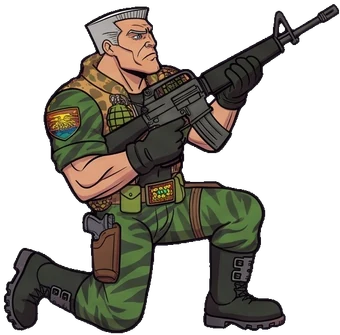
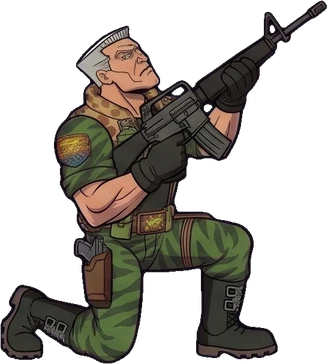
v13: soldado mas nitido, botones al tamano del joystick, voces audibles, poses de apuntar nuevas con angulo real del fusil

diff --git a/index.html b/index.html
@@ -23,12 +23,12 @@ body.touch #knob{display:block}
 <button id="mute" class="tb">🔊</button><button id="fs" class="tb">⛶</button>
 <div id="rot">Gira el móvil en horizontal ↻</div>
 <div id="zone"></div><div id="knob" class="idle"></div>
-<div class="b" id="bJ" style="right:calc(22px + env(safe-area-inset-right));bottom:calc(24px + env(safe-area-inset-bottom));width:92px;height:92px">SALTO</div>
-<div class="b" id="bF" style="right:calc(126px + env(safe-area-inset-right));bottom:calc(24px + env(safe-area-inset-bottom));width:92px;height:92px">FUEGO</div>
-<div class="b" id="bT" style="right:calc(78px + env(safe-area-inset-right));bottom:calc(126px + env(safe-area-inset-bottom));width:68px;height:68px;font-size:24px">⚡</div>
+<div class="b" id="bJ" style="right:calc(24px + env(safe-area-inset-right));bottom:calc(30px + env(safe-area-inset-bottom));width:76px;height:76px;font-size:13px">SALTO</div>
+<div class="b" id="bF" style="right:calc(112px + env(safe-area-inset-right));bottom:calc(30px + env(safe-area-inset-bottom));width:76px;height:76px;font-size:13px">FUEGO</div>
+<div class="b" id="bT" style="right:calc(68px + env(safe-area-inset-right));bottom:calc(118px + env(safe-area-inset-bottom));width:76px;height:76px;font-size:26px">⚡</div>
 <script src="spr.js"></script>
 <script>
-const VERSION='demo técnica v12 · fluida';
+const VERSION='demo técnica v13';
 // ---------- sprites ----------
 const NAMES=Object.keys(SPR),IMG={};let loaded=0;
 NAMES.forEach(n=>{const i=new Image();i.onload=()=>{loaded++};i.src='img/spr/'+n+'.webp';IMG[n]=i});
@@ -43,7 +43,7 @@ const AN={
 };
 // ---------- audio ----------
 let AC=null,muted=false,master=null;
-function audio(){if(AC)return;try{AC=new (window.AudioContext||window.webkitAudioContext)();master=AC.createGain();master.gain.value=muted?0:.5;master.connect(AC.destination)}catch(e){}}
+function audio(){if(AC)return;try{AC=new (window.AudioContext||window.webkitAudioContext)();master=AC.createGain();master.gain.value=muted?0:.5;const comp=AC.createDynamicsCompressor();comp.threshold.value=-14;comp.knee.value=10;comp.ratio.value=8;comp.attack.value=.003;comp.release.value=.15;master.connect(comp);comp.connect(AC.destination)}catch(e){}}
 function tone(f0,f1,dur,type,vol,delay){if(!AC)return;const t=AC.currentTime+(delay||0),o=AC.createOscillator(),g=AC.createGain();o.type=type||'square';o.frequency.setValueAtTime(f0,t);o.frequency.exponentialRampToValueAtTime(Math.max(20,f1),t+dur);g.gain.setValueAtTime(vol||.2,t);g.gain.exponentialRampToValueAtTime(.001,t+dur);o.connect(g);g.connect(master);o.start(t);o.stop(t+dur+.02)}
 function noise(dur,vol,hp,delay){if(!AC)return;const t=AC.currentTime+(delay||0),n=AC.sampleRate*dur|0,b=AC.createBuffer(1,n,AC.sampleRate),d=b.getChannelData(0);for(let i=0;i<n;i++)d[i]=(Math.random()*2-1)*(1-i/n);const s=AC.createBufferSource(),g=AC.createGain(),f=AC.createBiquadFilter();s.buffer=b;f.type='highpass';f.frequency.value=hp||800;g.gain.value=vol||.3;s.connect(f);f.connect(g);g.connect(master);s.start(t)}
 // voz grave sintetizada: fuente de dientes de sierra + dos formantes (como una vocal) + aspereza y soplo
@@ -52,7 +52,7 @@ function vocal(a,b,dur,f1,f2,vol,rough){if(!AC||muted)return;const t=AC.currentT
  const lfo=AC.createOscillator(),lg=AC.createGain();lfo.frequency.value=20+Math.random()*12;lg.gain.value=a*.06*(rough||1);lfo.connect(lg);lg.connect(o.frequency);lfo.start(t);lfo.stop(t+dur+.05);
  src.gain.value=.7;s2.gain.value=.35;o.connect(src);o2.connect(s2);s2.connect(src);
  [[f1,1],[f2,.6]].forEach(([f,gn])=>{const bp=AC.createBiquadFilter(),gg=AC.createGain();bp.type='bandpass';bp.frequency.value=f;bp.Q.value=4.5;gg.gain.value=gn;src.connect(bp);bp.connect(gg);gg.connect(g)});
- g.gain.setValueAtTime(.0001,t);g.gain.exponentialRampToValueAtTime(vol,t+.02);g.gain.exponentialRampToValueAtTime(.001,t+dur);g.connect(master);o.start(t);o2.start(t);o.stop(t+dur+.05);o2.stop(t+dur+.05);noise(Math.min(.12,dur),vol*.3,900)}
+ g.gain.setValueAtTime(.0001,t);g.gain.exponentialRampToValueAtTime(vol*6.5,t+.02);g.gain.exponentialRampToValueAtTime(.001,t+dur);g.connect(master);o.start(t);o2.start(t);o.stop(t+dur+.05);o2.stop(t+dur+.05);noise(Math.min(.14,dur),vol*.5,700)}
 const SFX={
  shot(){tone(2100,240,.17,'sawtooth',.16);tone(1050,110,.24,'sine',.26);tone(420,60,.16,'square',.12);noise(.07,.22,3500);tone(300,1500,.035,'triangle',.12)},   // zumbido de plasma
  grunt(k){if(k==='att')vocal(150,100,.16,650,1150,.5,1);else if(k==='jump'){if(Math.random()<.6)vocal(170,125,.13,520,1000,.42,1)}else if(k==='dash')vocal(135,85,.32,700,1200,.55,1.3);else if(k==='hurt')vocal(230,85,.4,800,1400,.7,2);else if(k==='die')vocal(190,45,1,700,1100,.7,2.5);else if(k==='win')vocal(120,150,.45,600,1000,.6,1)},
@@ -76,7 +76,7 @@ function scream(){tone(190,55,.6,'sawtooth',.28);tone(95,45,.6,'square',.12)}
  if('ontouchstart' in window)addEventListener('pointerdown',()=>{if(!document.fullscreenElement&&!document.webkitFullscreenElement)tog()},{once:true})})();
 document.getElementById('mute').onclick=e=>{muted=!muted;e.target.textContent=muted?'🔇':'🔊';if(master)master.gain.value=muted?0:.5;if(muted&&window.speechSynthesis)speechSynthesis.cancel()};
 // ---------- entrada ----------
-const K={};const keymap={ArrowLeft:'l',a:'l',ArrowRight:'r',d:'r',ArrowDown:'d',s:'d',ArrowUp:'u',w:'u',' ':'j',z:'j',k:'j',x:'f',j:'f',c:'t',l:'t',Shift:'t',h:'h',m:'m',v:'v',r:'rs'};
+const K={};const keymap={ArrowLeft:'l',a:'l',ArrowRight:'r',d:'r',ArrowDown:'d',s:'d',ArrowUp:'u',w:'u',' ':'j',z:'j',k:'j',x:'f',j:'f',c:'t',l:'t',Shift:'t',h:'h',m:'m',r:'rs'};
 const pressed={};
 addEventListener('keydown',e=>{audio();const k=keymap[e.key.length>1?e.key:e.key.toLowerCase()];if(k){K[k]=1;if(!pressed[k]){pressed[k]=1;edge(k)}e.preventDefault()}});
 addEventListener('keyup',e=>{const k=keymap[e.key.length>1?e.key:e.key.toLowerCase()];if(k){K[k]=0;pressed[k]=0}});
@@ -184,7 +184,7 @@ function shoot(){
 }
 // ---------- dibujo (optimizado: capas pre-escaladas, texturas de luz y resolución interna limitada) ----------
 const cv=document.getElementById('c'),cx=cv.getContext('2d',{alpha:false});let kk=1,cam=0,VW=640;
-const RS=1.5;   // píxeles internos por unidad lógica: tope de resolución para que vaya fluido, también en pantalla completa
+const RS=2;   // píxeles internos por unidad lógica: tope de resolución para que vaya fluido, también en pantalla completa
 const FG=new Image();FG.src='img/bg/primer_plano.jpg';const FGP=1.3,FGW=1747.5;      // primer plano: parallax 1.3
 const mk=(w,h)=>{const c=document.createElement('canvas');c.width=Math.max(1,Math.round(w));c.height=Math.max(1,Math.round(h));return c};
 let BGc=null,FGc=null,VIG=null;
@@ -202,15 +202,15 @@ function fit(){const w=innerWidth,h=innerHeight;VW=Math.max(640,Math.min(860,w/h
  VIG=mk(cv.width,cv.height);{const g=VIG.getContext('2d'),gr=g.createRadialGradient(VW/2*RS,GH*.55*RS,GH*.45*RS,VW/2*RS,GH*.55*RS,Math.max(GH*1.1,VW*.6)*RS);gr.addColorStop(0,'rgba(0,0,0,0)');gr.addColorStop(1,'rgba(0,10,6,.45)');g.fillStyle=gr;g.fillRect(0,0,VIG.width,VIG.height)}
  document.getElementById('rot').style.display=(h>w&&document.body.classList.contains('touch'))?'flex':'none'}
 addEventListener('resize',fit);fit();
-function spr(n,x,y,dir,alpha){const m=SPR[n],im=IMG[n];if(!im.complete)return;cx.save();cx.globalAlpha=alpha==null?1:alpha;cx.translate(x,y);cx.scale(dir,1);
+function spr(n,x,y,dir,alpha){const m=SPR[n],im=IMG[n];if(!im.complete)return;cx.save();cx.imageSmoothingQuality='high';cx.globalAlpha=alpha==null?1:alpha;cx.translate(x,y);cx.scale(dir,1);
  const k=SC*(m.sc||1)/(m.z||1);cx.drawImage(im,-m.cx*k,-m.by*k,m.w*k,m.h*k);cx.restore()}
 function sprTint(n,x,y,dir,alpha){const m=SPR[n],im=IMG[n];if(!im.complete||!im.naturalWidth)return;const k=SC*(m.sc||1)/(m.z||1),W=Math.ceil(m.w*k*kk),H=Math.ceil(m.h*k*kk);
  if(tcv.width<W||tcv.height<H){tcv.width=Math.max(tcv.width,W);tcv.height=Math.max(tcv.height,H)}else tcx.clearRect(0,0,W,H);
- tcx.globalCompositeOperation='source-over';tcx.drawImage(im,0,0,W,H);
+ tcx.globalCompositeOperation='source-over';tcx.imageSmoothingQuality='high';tcx.drawImage(im,0,0,W,H);
  tcx.globalCompositeOperation='source-atop';tcx.fillStyle='rgba(26,92,70,.20)';tcx.fillRect(0,0,W,H);
  const gl=P.glow||0;if(gl>.02){tcx.fillStyle='rgba(95,180,255,'+(.40*gl)+')';tcx.fillRect(0,0,W,H);const rg=tcx.createLinearGradient(W*(dir>0?1:0),0,W*(dir>0?.35:.65),0);rg.addColorStop(0,'rgba(170,225,255,'+(.45*gl)+')');rg.addColorStop(1,'rgba(170,225,255,0)');tcx.fillStyle=rg;tcx.fillRect(0,0,W,H)}
  const g=tcx.createLinearGradient(0,0,0,H);g.addColorStop(0,'rgba(190,255,200,.10)');g.addColorStop(1,'rgba(0,20,10,.22)');tcx.fillStyle=g;tcx.fillRect(0,0,W,H);tcx.globalCompositeOperation='source-over';
- cx.save();cx.globalAlpha=alpha==null?1:alpha;cx.translate(x,y);cx.scale(dir,1);cx.drawImage(tcv,0,0,W,H,-m.cx*k,-m.by*k,W/kk,H/kk);cx.restore()}
+ cx.save();cx.imageSmoothingQuality='high';cx.globalAlpha=alpha==null?1:alpha;cx.translate(x,y);cx.scale(dir,1);cx.drawImage(tcv,0,0,W,H,-m.cx*k,-m.by*k,W/kk,H/kk);cx.restore()}
 function frame(){const a=AN[P.state]||AN.idle,i=a[2]?Math.floor((P.ft||0)*a[1])%a[0].length:0;return a[0][i]}
 function draw(){
  if(!BGc||!FGc)prep();
@@ -249,7 +249,7 @@ function draw(){
  cx.fillText('SOLDADOS DE ALTA ELITE · '+VERSION,10,18);
  for(let i=0;i<5;i++){cx.fillStyle=i<P.hp?'#e04040':'#444';cx.fillRect(10+i*18,26,14,12)}
  cx.fillStyle='#ddd';cx.font='11px Arial';cx.fillText('Estado: '+P.state+(P.canDash?'  ⚡ impulso listo':'  ⚡ recargando (toca suelo)'),10,54);
- if(!document.body.classList.contains('touch')){cx.fillText('◀▶/A D mover · ▼/S agachar · Espacio/Z salto · X/J fuego · C/Shift impulso · W/↑ apuntar arriba · ▼ en el aire abajo · H daño · V victoria · R reiniciar · M sonido',10,GH-8)}
+ if(!document.body.classList.contains('touch')){cx.fillText('◀▶/A D mover · ▼/S agachar · Espacio/Z salto · X/J fuego · C/Shift impulso · W/↑ apuntar arriba · ▼ en el aire abajo · H daño · R reiniciar · M sonido',10,GH-8)}
  if(P.dead){cx.fillStyle='#000a';cx.fillRect(0,130,VW,80);cx.fillStyle='#fff';cx.font='bold 26px Arial';cx.textAlign='center';cx.fillText('MISIÓN FALLIDA',VW/2,172);cx.font='13px Arial';cx.fillText('Pulsa R o salta para reiniciar',VW/2,196)}
 }
 let last=performance.now(),started=false;

diff --git a/spr.js b/spr.js
@@ -1,1 +1,1 @@
-window.SPR={"a1_0":{"w":389,"h":394,"cx":155,"by":389,"tx":383,"ty":72,"z":1.2,"ax":1,"ay":-0.008},"a1_1":{"w":346,"h":410,"cx":143,"by":406,"tx":339,"ty":31,"z":1.2,"ax":0.936,"ay":-0.351},"a1_2":{"w":259,"h":464,"cx":128,"by":462,"tx":250,"ty":1,"z":1.2,"ax":0.552,"ay":-0.834,"sc":1.1},"a1_3":{"w":319,"h":400,"cx":132,"by":397,"tx":314,"ty":233,"z":1.2,"ax":0.867,"ay":0.498},"a1_4":{"w":346,"h":373,"cx":148,"by":369,"tx":338,"ty":245,"z":1.2,"ax":0.818,"ay":0.575},"a1_5":{"w":394,"h":319,"cx":184,"by":316,"tx":391,"ty":94,"z":1.2,"ax":1,"ay":0.001},"a1_6":{"w":340,"h":335,"cx":157,"by":332,"tx":334,"ty":4,"z":1.2,"ax":0.857,"ay":-0.516},"d1_0":{"w":400,"h":367,"cx":190,"by":365,"tx":396,"ty":149,"z":1.2,"ax":0.998,"ay":0.058,"sc":1.002},"d1_1":{"w":427,"h":389,"cx":220,"by":386,"tx":421,"ty":175,"z":1.2,"ax":0.978,"ay":0.21,"sc":0.986},"d1_2":{"w":454,"h":362,"cx":254,"by":358,"tx":448,"ty":163,"z":1.2,"ax":0.974,"ay":0.228,"sc":0.974},"d1_3":{"w":405,"h":373,"cx":211,"by":371,"tx":402,"ty":161,"z":1.2,"ax":0.979,"ay":0.203,"sc":0.987},"d1_4":{"w":427,"h":383,"cx":218,"by":377,"tx":425,"ty":154,"z":1.2,"ax":0.995,"ay":0.097,"sc":0.984},"d1_5":{"w":405,"h":373,"cx":191,"by":369,"tx":401,"ty":158,"z":1.2,"ax":0.994,"ay":0.113,"sc":1.004},"d1_6":{"w":335,"h":373,"cx":117,"by":371,"tx":331,"ty":244,"z":1.2,"ax":0.898,"ay":0.44,"sc":0.996},"d1_7":{"w":296,"h":405,"cx":129,"by":400,"tx":295,"ty":150,"z":1.2,"ax":1,"ay":0.028,"sc":1.021},"e2_0":{"w":346,"h":365,"cx":137,"by":364,"tx":344,"ty":146,"z":1.2,"ax":0.999,"ay":0.045,"sc":1.007},"e2_1":{"w":349,"h":398,"cx":139,"by":397,"tx":347,"ty":164,"z":1.2,"ax":0.998,"ay":0.066,"sc":1.007},"e2_2":{"w":404,"h":380,"cx":150,"by":379,"tx":402,"ty":112,"z":1.2,"ax":1,"ay":0,"sc":0.994},"e2_3":{"w":367,"h":406,"cx":157,"by":371,"tx":366,"ty":137,"z":1.2,"ax":0.995,"ay":-0.099,"sc":0.966},"e2_4":{"w":355,"h":404,"cx":118,"by":403,"tx":353,"ty":149,"z":1.2,"sc":0.996},"e2_5":{"w":400,"h":356,"cx":151,"by":355,"tx":398,"ty":185,"z":1.2,"sc":1},"e2_6":{"w":426,"h":160,"cx":215,"by":158,"tx":425,"ty":74,"z":1.2,"sc":1},"e2_7":{"w":293,"h":425,"cx":130,"by":424,"tx":292,"ty":235,"z":1.2,"sc":1.056},"j1_0":{"w":400,"h":367,"cx":191,"by":364,"tx":396,"ty":150,"z":1.2,"ax":0.997,"ay":0.075,"sc":1.017},"j1_1":{"w":432,"h":389,"cx":227,"by":386,"tx":431,"ty":160,"z":1.2,"ax":0.993,"ay":0.121,"sc":1.021},"j1_2":{"w":394,"h":416,"cx":187,"by":410,"tx":389,"ty":167,"z":1.2,"ax":0.989,"ay":0.146,"sc":1.02},"j1_3":{"w":329,"h":351,"cx":126,"by":350,"tx":324,"ty":167,"z":1.2,"ax":0.983,"ay":0.183,"sc":0.996},"j1_4":{"w":335,"h":340,"cx":121,"by":339,"tx":331,"ty":150,"z":1.2,"ax":0.997,"ay":0.08,"sc":1.007},"j1_5":{"w":335,"h":389,"cx":120,"by":385,"tx":331,"ty":164,"z":1.2,"ax":0.992,"ay":0.124,"sc":1.013},"j1_6":{"w":335,"h":394,"cx":121,"by":391,"tx":331,"ty":164,"z":1.2,"ax":0.993,"ay":0.121,"sc":1.013},"j1_7":{"w":328,"h":313,"cx":147,"by":309,"tx":327,"ty":162,"z":1.2,"ax":0.997,"ay":0.08,"sc":0.999},"r1_0":{"w":427,"h":383,"cx":218,"by":382,"tx":425,"ty":148,"z":1.2,"ax":0.996,"ay":0.087,"sc":1.012},"r1_1":{"w":383,"h":362,"cx":176,"by":359,"tx":378,"ty":156,"z":1.2,"ax":0.988,"ay":0.153,"sc":0.998},"r1_2":{"w":383,"h":394,"cx":178,"by":391,"tx":380,"ty":176,"z":1.2,"ax":0.964,"ay":0.267,"sc":0.996},"r1_3":{"w":378,"h":416,"cx":172,"by":412,"tx":377,"ty":173,"z":1.2,"ax":0.975,"ay":0.224,"sc":0.988},"r1_4":{"w":443,"h":394,"cx":224,"by":393,"tx":437,"ty":148,"z":1.2,"ax":0.996,"ay":0.094,"sc":1.006},"r1_5":{"w":389,"h":389,"cx":176,"by":385,"tx":385,"ty":165,"z":1.2,"ax":0.991,"ay":0.135,"sc":1.007},"r1_6":{"w":432,"h":394,"cx":219,"by":391,"tx":428,"ty":164,"z":1.2,"ax":0.988,"ay":0.153,"sc":1},"r1_7":{"w":344,"h":410,"cx":172,"by":407,"tx":343,"ty":158,"z":1.2,"ax":0.998,"ay":0.061,"sc":1.01}};
+window.SPR={"a1_0":{"w":346,"h":364,"cx":136,"by":363,"tx":344,"ty":143,"z":1.2,"ax":0.998,"ay":0.055},"a1_1":{"w":329,"h":401,"cx":136,"by":400,"tx":325,"ty":15,"z":1.2,"ax":0.866,"ay":-0.5},"a1_2":{"w":378,"h":448,"cx":134,"by":446,"tx":259,"ty":1,"z":1.2,"ax":0.563,"ay":-0.826,"sc":1.1},"a1_3":{"w":325,"h":382,"cx":147,"by":381,"tx":322,"ty":245,"z":1.2,"ax":0.877,"ay":0.48},"a1_4":{"w":293,"h":382,"cx":129,"by":380,"tx":278,"ty":251,"z":1.2,"ax":0.624,"ay":0.781},"a1_5":{"w":408,"h":332,"cx":169,"by":331,"tx":389,"ty":112,"z":1.2,"ax":1,"ay":0.013},"a1_6":{"w":328,"h":364,"cx":160,"by":363,"tx":323,"ty":1,"z":1.2,"ax":0.807,"ay":-0.59},"a1_7":{"w":281,"h":452,"cx":160,"by":451,"tx":248,"ty":1,"z":1.2,"ax":0.206,"ay":-0.979},"d1_0":{"w":400,"h":367,"cx":190,"by":365,"tx":396,"ty":149,"z":1.2,"ax":0.998,"ay":0.058,"sc":1.002},"d1_1":{"w":427,"h":389,"cx":220,"by":386,"tx":421,"ty":175,"z":1.2,"ax":0.978,"ay":0.21,"sc":0.986},"d1_2":{"w":454,"h":362,"cx":254,"by":358,"tx":448,"ty":163,"z":1.2,"ax":0.974,"ay":0.228,"sc":0.974},"d1_3":{"w":405,"h":373,"cx":211,"by":371,"tx":402,"ty":161,"z":1.2,"ax":0.979,"ay":0.203,"sc":0.987},"d1_4":{"w":427,"h":383,"cx":218,"by":377,"tx":425,"ty":154,"z":1.2,"ax":0.995,"ay":0.097,"sc":0.984},"d1_5":{"w":405,"h":373,"cx":191,"by":369,"tx":401,"ty":158,"z":1.2,"ax":0.994,"ay":0.113,"sc":1.004},"d1_6":{"w":335,"h":373,"cx":117,"by":371,"tx":331,"ty":244,"z":1.2,"ax":0.898,"ay":0.44,"sc":0.996},"d1_7":{"w":296,"h":405,"cx":129,"by":400,"tx":295,"ty":150,"z":1.2,"ax":1,"ay":0.028,"sc":1.021},"e2_0":{"w":346,"h":365,"cx":137,"by":364,"tx":344,"ty":146,"z":1.2,"ax":0.999,"ay":0.045,"sc":1.007},"e2_1":{"w":349,"h":398,"cx":139,"by":397,"tx":347,"ty":164,"z":1.2,"ax":0.998,"ay":0.066,"sc":1.007},"e2_2":{"w":404,"h":380,"cx":150,"by":379,"tx":402,"ty":112,"z":1.2,"ax":1,"ay":0,"sc":0.994},"e2_3":{"w":367,"h":406,"cx":157,"by":371,"tx":366,"ty":137,"z":1.2,"ax":0.995,"ay":-0.099,"sc":0.966},"e2_4":{"w":355,"h":404,"cx":118,"by":403,"tx":353,"ty":149,"z":1.2,"sc":0.996},"e2_5":{"w":400,"h":356,"cx":151,"by":355,"tx":398,"ty":185,"z":1.2,"sc":1},"e2_6":{"w":426,"h":160,"cx":215,"by":158,"tx":425,"ty":74,"z":1.2,"sc":1},"e2_7":{"w":293,"h":425,"cx":130,"by":424,"tx":292,"ty":235,"z":1.2,"sc":1.056},"j1_0":{"w":400,"h":367,"cx":191,"by":364,"tx":396,"ty":150,"z":1.2,"ax":0.997,"ay":0.075,"sc":1.017},"j1_1":{"w":432,"h":389,"cx":227,"by":386,"tx":431,"ty":160,"z":1.2,"ax":0.993,"ay":0.121,"sc":1.021},"j1_2":{"w":394,"h":416,"cx":187,"by":410,"tx":389,"ty":167,"z":1.2,"ax":0.989,"ay":0.146,"sc":1.02},"j1_3":{"w":329,"h":351,"cx":126,"by":350,"tx":324,"ty":167,"z":1.2,"ax":0.983,"ay":0.183,"sc":0.996},"j1_4":{"w":335,"h":340,"cx":121,"by":339,"tx":331,"ty":150,"z":1.2,"ax":0.997,"ay":0.08,"sc":1.007},"j1_5":{"w":335,"h":389,"cx":120,"by":385,"tx":331,"ty":164,"z":1.2,"ax":0.992,"ay":0.124,"sc":1.013},"j1_6":{"w":335,"h":394,"cx":121,"by":391,"tx":331,"ty":164,"z":1.2,"ax":0.993,"ay":0.121,"sc":1.013},"j1_7":{"w":328,"h":313,"cx":147,"by":309,"tx":327,"ty":162,"z":1.2,"ax":0.997,"ay":0.08,"sc":0.999},"r1_0":{"w":427,"h":383,"cx":218,"by":382,"tx":425,"ty":148,"z":1.2,"ax":0.996,"ay":0.087,"sc":1.012},"r1_1":{"w":383,"h":362,"cx":176,"by":359,"tx":378,"ty":156,"z":1.2,"ax":0.988,"ay":0.153,"sc":0.998},"r1_2":{"w":383,"h":394,"cx":178,"by":391,"tx":380,"ty":176,"z":1.2,"ax":0.964,"ay":0.267,"sc":0.996},"r1_3":{"w":378,"h":416,"cx":172,"by":412,"tx":377,"ty":173,"z":1.2,"ax":0.975,"ay":0.224,"sc":0.988},"r1_4":{"w":443,"h":394,"cx":224,"by":393,"tx":437,"ty":148,"z":1.2,"ax":0.996,"ay":0.094,"sc":1.006},"r1_5":{"w":389,"h":389,"cx":176,"by":385,"tx":385,"ty":165,"z":1.2,"ax":0.991,"ay":0.135,"sc":1.007},"r1_6":{"w":432,"h":394,"cx":219,"by":391,"tx":428,"ty":164,"z":1.2,"ax":0.988,"ay":0.153,"sc":1},"r1_7":{"w":344,"h":410,"cx":172,"by":407,"tx":343,"ty":158,"z":1.2,"ax":0.998,"ay":0.061,"sc":1.01}};
